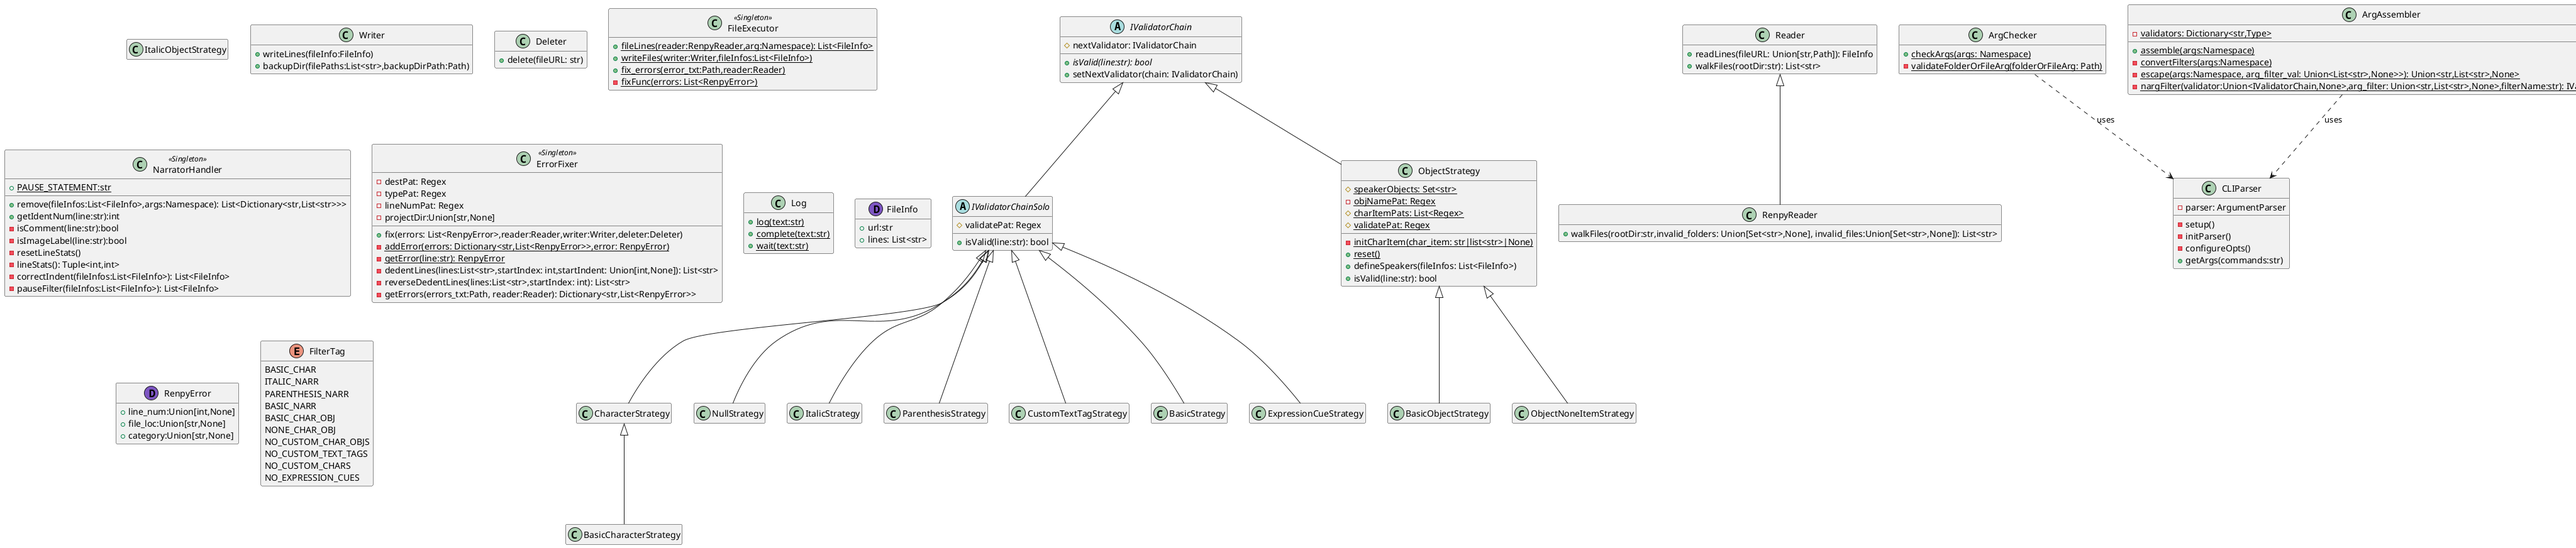
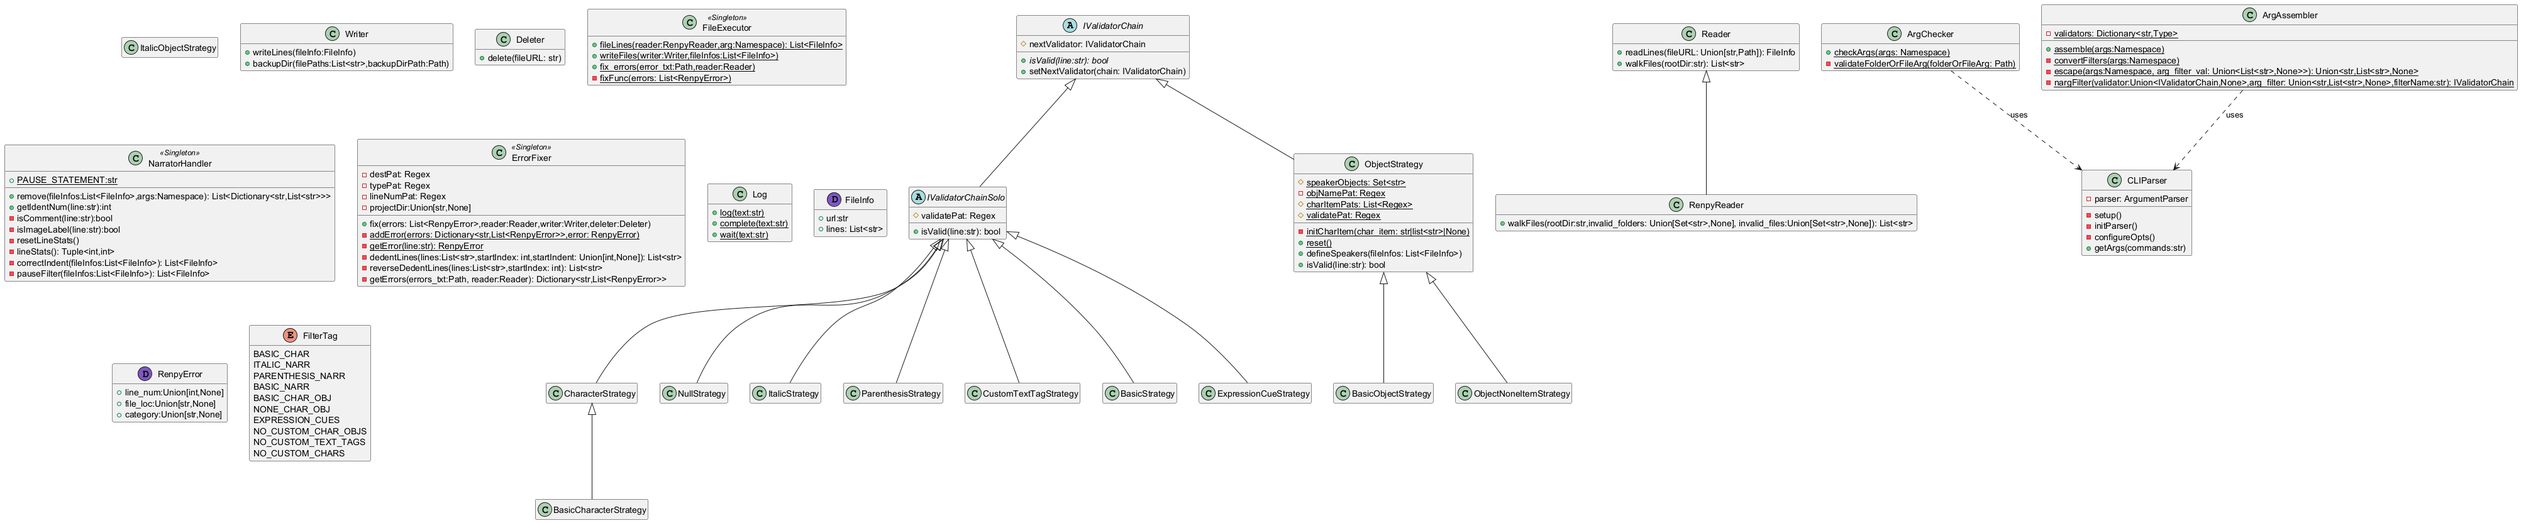
- Expression cue filter is now enabled by default - Change Expression cue option: '--no-cues' -> '--cues' - Update class diagram - Update COMMANDS - Improve removal stats - Comments at the start of a .rpy file sre now removed - Multi-line narration are now detected and removed - Update tests - Updat

diff --git a/tests/arg/test_arg_assembler.py b/tests/arg/test_arg_assembler.py
@@ -16,9 +16,11 @@ class TestArgAssembler(unittest.TestCase):
     def eval_validator_chain(self, arg_namespace, correct_type_list):
         ArgAssembler.assemble(arg_namespace)
         current_validator = arg_namespace.validator
+        validators = set()
         while current_validator:
-            self.assertIn(type(current_validator), correct_type_list)
+            validators.add(type(current_validator))
             current_validator = current_validator.next_validator
+        self.assertCountEqual(validators,correct_type_list,"Validators does not match correct list.")
 
     def start(self, args, correct_type_list):
         arg_namespace = fixture.get_args(self._parser, args)
@@ -41,7 +43,7 @@ class TestArgAssembler(unittest.TestCase):
             FilterTag.ITALIC_NARR.value,
             FilterTag.BASIC_NARR.value,
         ]
-        self.start(args, {NullStrategy, ObjectNoneItemStrategy, ParenthesisStrategy, BasicObjectStrategy})
+        self.start(args, {  NullStrategy, ObjectNoneItemStrategy, ParenthesisStrategy, BasicObjectStrategy,ExpressionCueStrategy  })
 
     def test_nargs(self):
         args = [
@@ -51,6 +53,7 @@ class TestArgAssembler(unittest.TestCase):
             FilterTag.PARENTHESIS_NARR.value,
             FilterTag.BASIC_CHAR_OBJ.value,
             FilterTag.BASIC_NARR.value,
+            FilterTag.EXPRESSION_CUES.value,
             FilterTag.NO_CUSTOM_CHARS.value,
             "ten",
             "narrator",
@@ -75,6 +78,7 @@ class TestArgAssembler(unittest.TestCase):
             FilterTag.BASIC_CHAR_OBJ.value,
             FilterTag.BASIC_NARR.value,
             FilterTag.NONE_CHAR_OBJ.value,
+            FilterTag.EXPRESSION_CUES.value,
             "--regex",
             FilterTag.NO_CUSTOM_CHARS.value,
             "ten{3}",
@@ -94,6 +98,7 @@ class TestArgAssembler(unittest.TestCase):
             FilterTag.BASIC_CHAR_OBJ.value,
             FilterTag.BASIC_NARR.value,
             FilterTag.NONE_CHAR_OBJ.value,
+            FilterTag.EXPRESSION_CUES.value,
             FilterTag.NO_CUSTOM_CHARS.value,
             "ten{3}",
             "seco.+",
@@ -102,16 +107,3 @@ class TestArgAssembler(unittest.TestCase):
             "py[Ww]",
         ]
         self.start_escape(args, 5)
-
-    def test_cue_chain(self):
-        args = [
-            "game/",
-            FilterTag.BASIC_CHAR.value,
-            FilterTag.ITALIC_NARR.value,
-            FilterTag.PARENTHESIS_NARR.value,
-            FilterTag.BASIC_CHAR_OBJ.value,
-            FilterTag.BASIC_NARR.value,
-            FilterTag.NONE_CHAR_OBJ.value,
-            FilterTag.NO_EXPRESSION_CUES.value,
-        ]
-        self.start(args, [NullStrategy, ExpressionCueStrategy])

diff --git a/src/lib/narrator_handler.py b/src/lib/narrator_handler.py
@@ -28,7 +28,7 @@ class NarratorHandler:
         return strip_line.startswith("image ") and strip_line.endswith(":")
 
     def __is_comment(self, strip_line: str) -> bool:
-        return strip_line.startswith("#")
+        return strip_line.startswith("\uFEFF#") or strip_line.startswith("#")
 
     def __reset_line_stats(self):
         self._total_cleaned_lines = 0
@@ -55,9 +55,21 @@ class NarratorHandler:
             cleaned_lines = []
             image_label_indent = 0
             prev_line_info = {"is_narr": False, "line": ""}
+            is_multi_line = False
             for line in file_info.lines:
                 strip_line = line.strip()
                 if self.__is_comment(strip_line):
+                    continue
+                endswith_quote = strip_line.endswith('"')
+                # If narrator is multiline. Ex:
+                # narr ".....................
+                # ....................."
+                if is_multi_line:
+                    if endswith_quote:
+                        is_multi_line = False
+                        if args.pauses:
+                            # Replaces narration with pauses
+                            cleaned_lines.append(f"{' ' * self.get_indent_num(line)}{NarratorHandler.PAUSE_STATEMENT}\n")
                     continue
                 is_narrator = args.validator.is_valid(strip_line)
 
@@ -98,8 +110,12 @@ class NarratorHandler:
                 else:
                     cleaned_lines.append(line)
 
+                if is_narrator and not is_multi_line and not endswith_quote:
+                    is_multi_line = True
+                    continue
                 prev_line_info["is_narr"] = is_narrator
                 prev_line_info["line"] = line
+
             file_info.lines = cleaned_lines
         if args.pauses:
             file_infos = self.__pause_filter(file_infos)

diff --git a/src/lib/arg/cli_parser.py b/src/lib/arg/cli_parser.py
@@ -20,7 +20,7 @@ class CLIParser:
     """
 
     def __init__(self):
-        self.__version_num = "1.1.1"
+        self.__version_num = "2.0.0"
         self.__setup()
 
     def __setup(self):
@@ -112,6 +112,7 @@ class CLIParser:
             FilterTag.PARENTHESIS_NARR.value: "Keep dialogue fully wrapped in a parenthesis",
             FilterTag.BASIC_CHAR.value: "Keep [default narrators] not saved to a Character object",
             FilterTag.NONE_CHAR_OBJ.value: "Keep empty Character objects.",
+            FilterTag.EXPRESSION_CUES.value: "Keep expression cues. Ex: *smiles*, *raises eyebrows*."
         }
         self.__add_no_filters(no_filters)
         self.__add_filter_arg(
@@ -134,11 +135,6 @@ class CLIParser:
             metavar="SPEAKER_OBJECT_NAMES",
             nargs="*",
             help="Removes speaker(s) saved to a Character object",
-        )
-        self.__add_filter_arg(
-            FilterTag.NO_EXPRESSION_CUES.value,
-            action="store_true",
-            help="Removes expression cues. Ex: *smiles*, *raises eyebrows*.",
         )
 
     def __add_no_filters(self, optnames: dict[str, str]):

diff --git a/src/lib/arg/arg_assembler.py b/src/lib/arg/arg_assembler.py
@@ -29,7 +29,7 @@ class ArgAssembler:
         FilterTag.NO_CUSTOM_TEXT_TAGS.value: CustomTextTagStrategy,
         FilterTag.NO_CUSTOM_CHARS.value: CharacterStrategy,
         FilterTag.NO_CUSTOM_CHAR_OBJS.value: ObjectStrategy,
-        FilterTag.NO_EXPRESSION_CUES.value: ExpressionCueStrategy,
+        FilterTag.EXPRESSION_CUES.value: ExpressionCueStrategy,
     }
 
     @classmethod
@@ -68,14 +68,12 @@ class ArgAssembler:
         current_validator = cls.__narg_filter(
             current_validator, cls.__escape(args, args.no_custom_char_objs), FilterTag.NO_CUSTOM_CHAR_OBJS.value
         )
-        if args.no_cues:
-            current_validator.next_validator = ExpressionCueStrategy()
 
     @staticmethod
     def __escape(args, arg_filter_val: list[str] | None) -> str | list[str] | None:
         """Convert filter value into a literal expression if '--regex' is enabled."""
         if not arg_filter_val:
-            return
+            return arg_filter_val
         if not args.regex:
             for i in range(len(arg_filter_val)):
                 arg_filter_val[i] = re.escape(arg_filter_val[i])

diff --git a/src/lib/main.py b/src/lib/main.py
@@ -35,8 +35,8 @@ def run():
     total_cleaned_lines, total_lines = narrator_handler.line_stats()
     Log.log(f"""Line Stats:
         Removed: {total_lines - total_cleaned_lines} lines
-        Removed %: {(total_lines - total_cleaned_lines) / total_lines * 100}%
-        Remaining %: {(total_cleaned_lines / total_lines) * 100}%""")
+        Removed (%): {(total_lines - total_cleaned_lines) / total_lines * 100} %
+        Remaining (%): {(total_cleaned_lines / total_lines) * 100} %""")
 
 
 if __name__ == "__main__":

diff --git a/src/lib/custom_types.py b/src/lib/custom_types.py
@@ -9,10 +9,10 @@ class FilterTag(Enum):
     PARENTHESIS_NARR = "--parenthesis-narr"
     BASIC_CHAR = "--basic-char"
     NONE_CHAR_OBJ = "--none-char-obj"
+    EXPRESSION_CUES = "--cues"
     NO_CUSTOM_TEXT_TAGS = "--no-custom-tags"
     NO_CUSTOM_CHARS = "--no-custom-chars"
     NO_CUSTOM_CHAR_OBJS = "--no-custom-char-objs"
-    NO_EXPRESSION_CUES = "--no-cues"
 
 
 @dataclass

diff --git a/src/lib/file/file_executor.py b/src/lib/file/file_executor.py
@@ -22,7 +22,7 @@ class FileExecutor:
         max_workers: Maximum threads to perform an operation or series of operations.
     """
 
-    max_workers = 0
+    max_workers = 4
 
     @classmethod
     def file_lines(cls, reader: RenpyReader, arg_namespace) -> list[FileInfo]:

diff --git a/tests/validator/test_dialogue.py b/tests/validator/test_dialogue.py
@@ -7,7 +7,7 @@ from lib.validator.dialogue import (
     ExpressionCueStrategy,
 )
 from lib.validator.ivalidator_chain import IValidatorChain
-from ..fixture import get_dialogue_list
+from tests.fixture import get_dialogue_list
 
 
 class TestDialogue(unittest.TestCase):

diff --git a/tests/file/test_executor.py b/tests/file/test_executor.py
@@ -8,10 +8,6 @@ from .. import fixture
 
 
 class TestExecutor(unittest.TestCase):
-    @classmethod
-    def setUpClass(cls):
-        FileExecutor.max_workers = 4
-
     def test_reader(self):
         parser = CLIParser()
         reader = RenpyReader()

diff --git a/tests/validator/test_character.py b/tests/validator/test_character.py
@@ -1,5 +1,5 @@
 import unittest
-from ..fixture import get_dialogue_list
+from  tests.fixture import get_dialogue_list
 from lib.validator.speaker import (
     ObjectNoneItemStrategy,
     BasicCharacterStrategy,

diff --git a/COMMANDS.md b/COMMANDS.md
@@ -211,13 +211,13 @@ Removes a speaker explicitly written in quotes alongside their dialogue and **NO
 
 These filters deal with the **dialogue** portion of dialogue box.
 
-| Commands             | Script Example                                 | Description                                                                                                  |
-|----------------------|------------------------------------------------|--------------------------------------------------------------------------------------------------------------|
-| --basic-narr       | “I’m the narrator of this game”                | Dialogues without a speaker                                                                                  |
-| --italic-narr      | mc “{i}Maybe there’s food left over.{/i}       | Italics. Thinking dialogue.                                                                                  |
-| --parenthesis-narr | mc “(It’s got to be here somewhere.)”          | `()`. Thinking/Narrator dialogue                                                                             |
-| --no-custom-tags, --nct     | mc “{fzs}A small bold font tag.{/fzs}” <br>mc "{fzs=10}My text is here{/fzs}"| [Custom text tag.](https://www.renpy.org/doc/html/custom_text_tags.html) Can be used for thoughts/narrative. |
-| --no-cues | mc "\**blushes softly*\*" | Expression cues. \**smiles*\* |
+| Commands                | Script Example                                                                | Description                                                                                                  |
+|-------------------------|-------------------------------------------------------------------------------|--------------------------------------------------------------------------------------------------------------|
+| --basic-narr            | “I’m the narrator of this game”                                               | Dialogues without a speaker                                                                                  |
+| --italic-narr           | mc “{i}Maybe there’s food left over.{/i}                                      | Italics. Thinking dialogue.                                                                                  |
+| --parenthesis-narr      | mc “(It’s got to be here somewhere.)”                                         | `()`. Thinking/Narrator dialogue                                                                             |
+| --no-custom-tags, --nct | mc “{fzs}A small bold font tag.{/fzs}” <br>mc "{fzs=10}My text is here{/fzs}" | [Custom text tag.](https://www.renpy.org/doc/html/custom_text_tags.html) Can be used for thoughts/narrative. |
+| --cues                  | mc "\**blushes softly*\*"                                                     | Expression cues. \**smiles*\*                                                                                |
 
 ***—basic-narr***
 
@@ -260,11 +260,11 @@ nonarrate mycoolgame\game --no-custom-tags fzs
 
 **Side Note:** This option can use **REGEX**. Use `--regex` to enable this feature.  See [REGEX Examples](#regex-examples) for examples.
 
-***--no-cues***
+***--cues***
 
-Removes expression cues.
+Keeps expression cues.
 
-Removes dialogue that *only* includes an expression cue.
+Keeps dialogue that *only* includes an expression cue.
 Expression cues are signals indicating emotions and reactions. However,
 this can be achieved *visually*.
 
